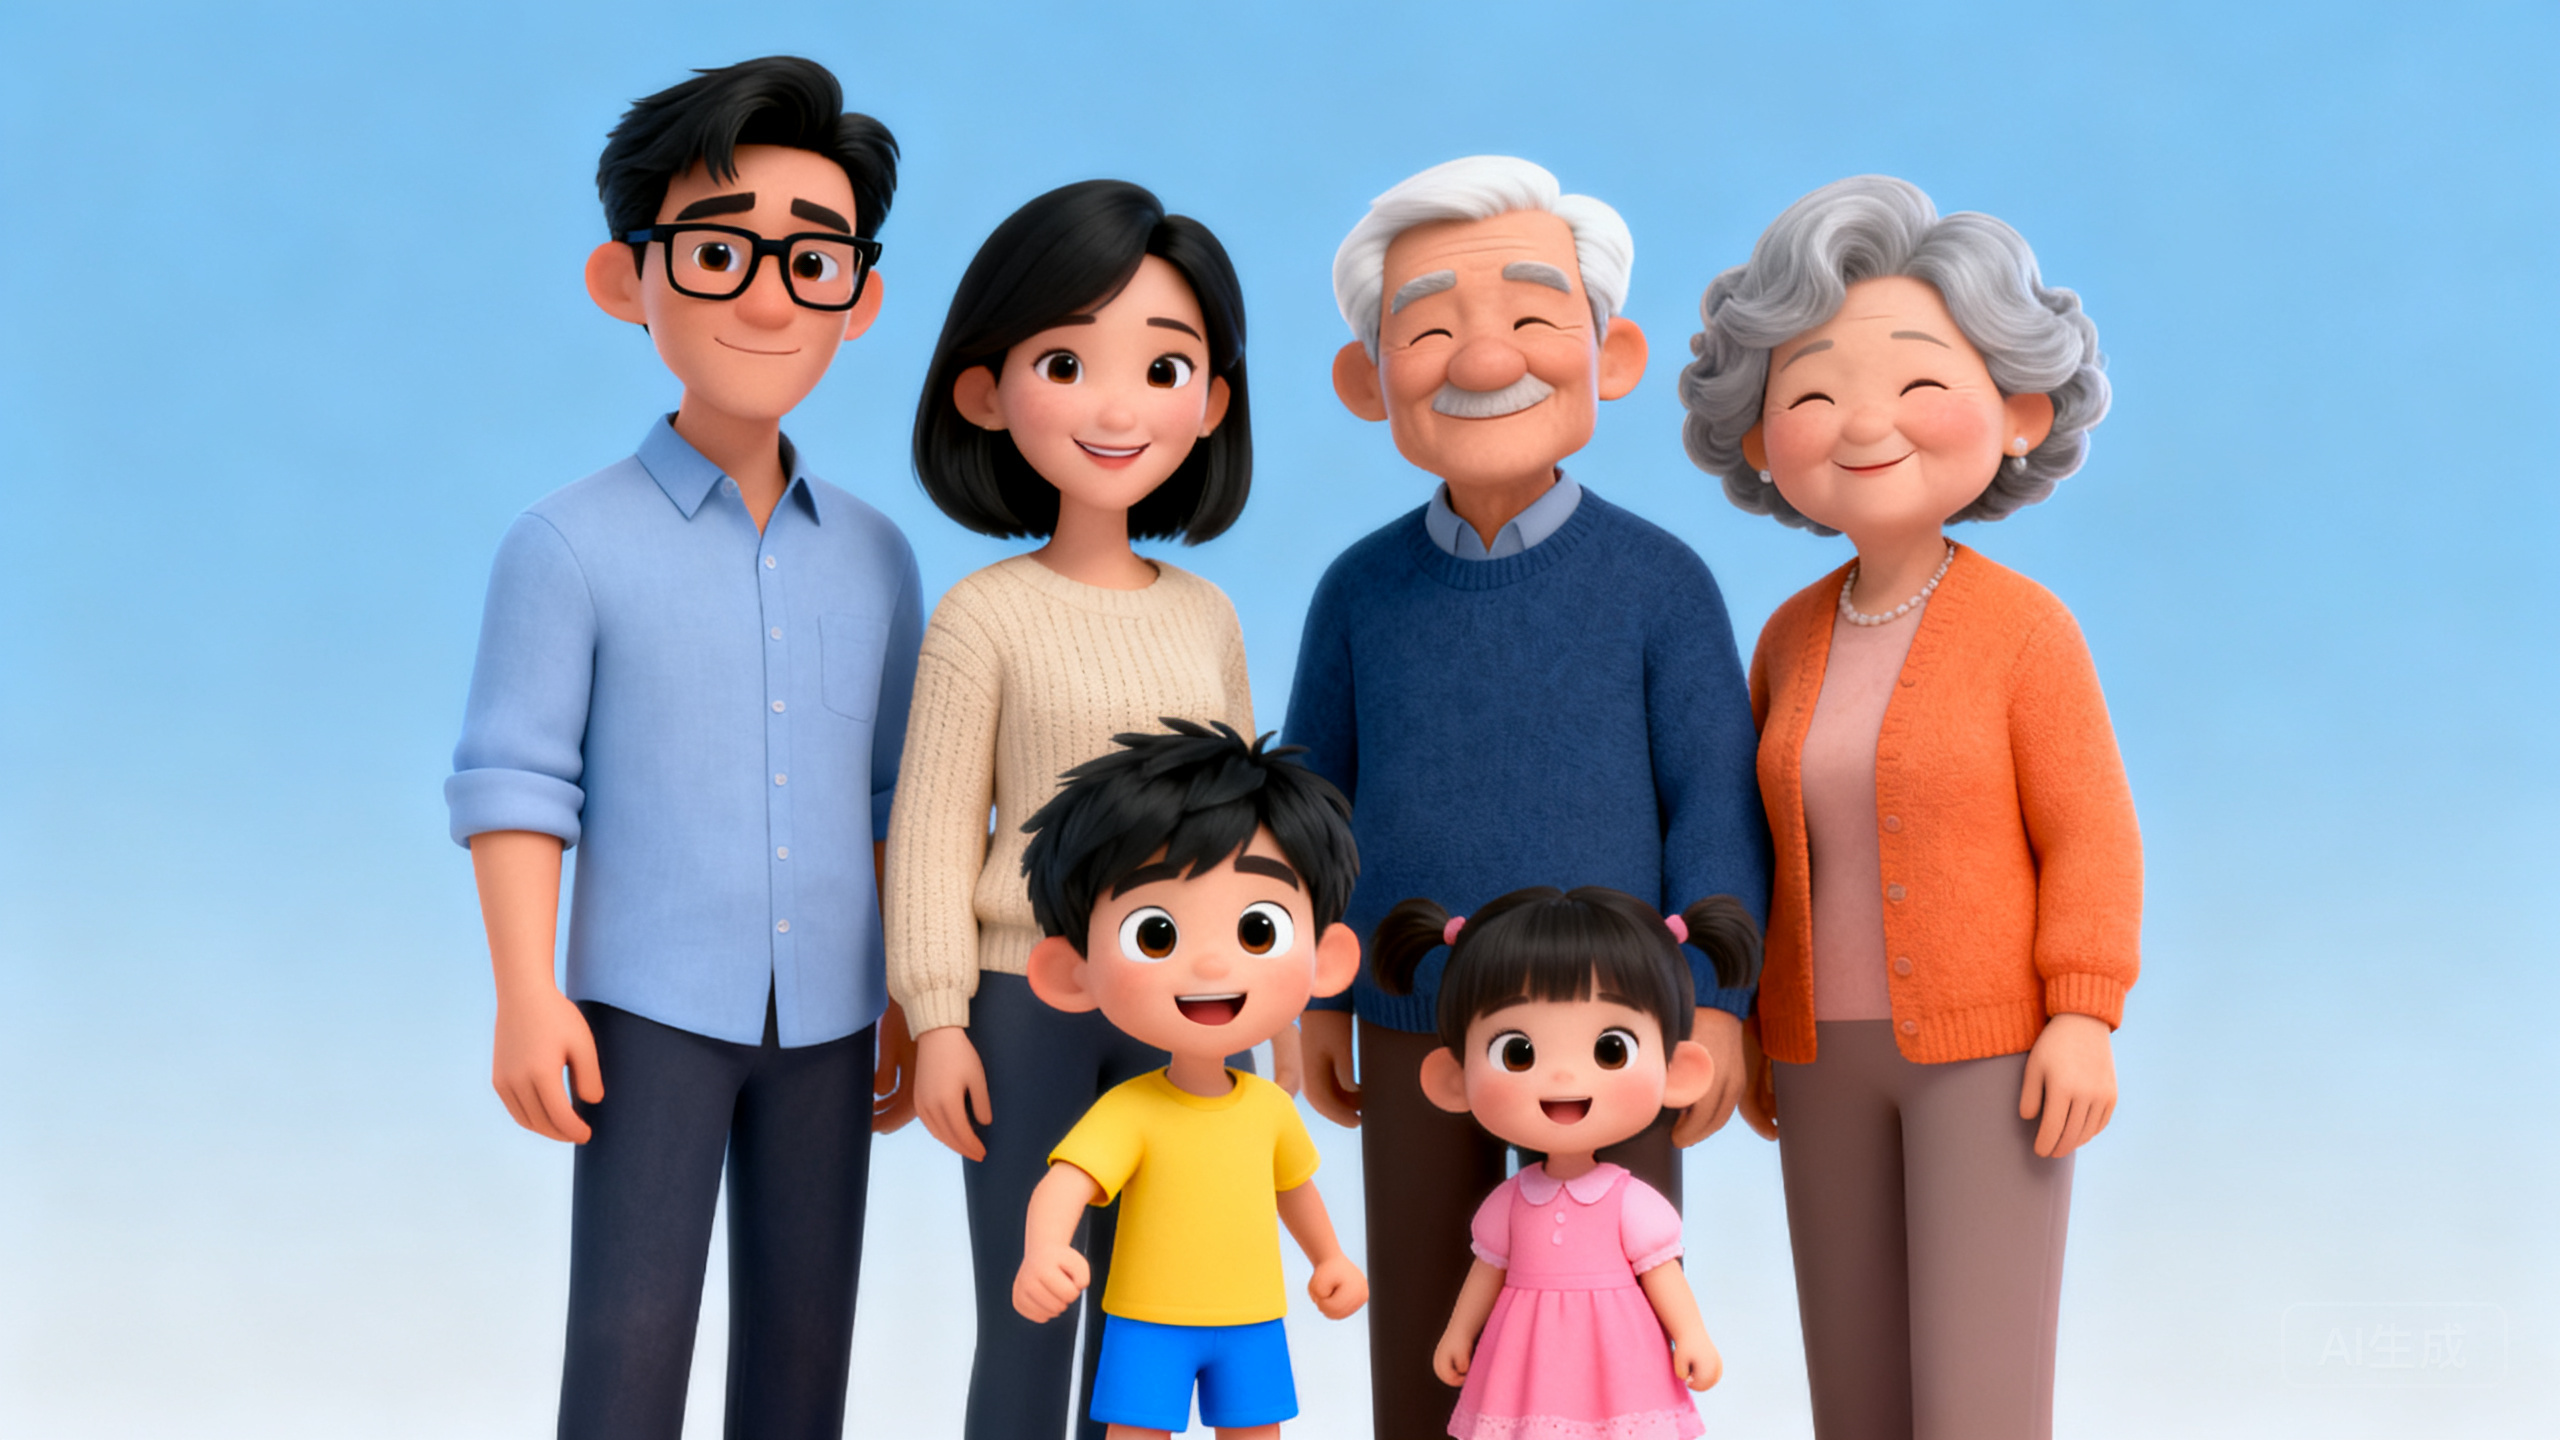
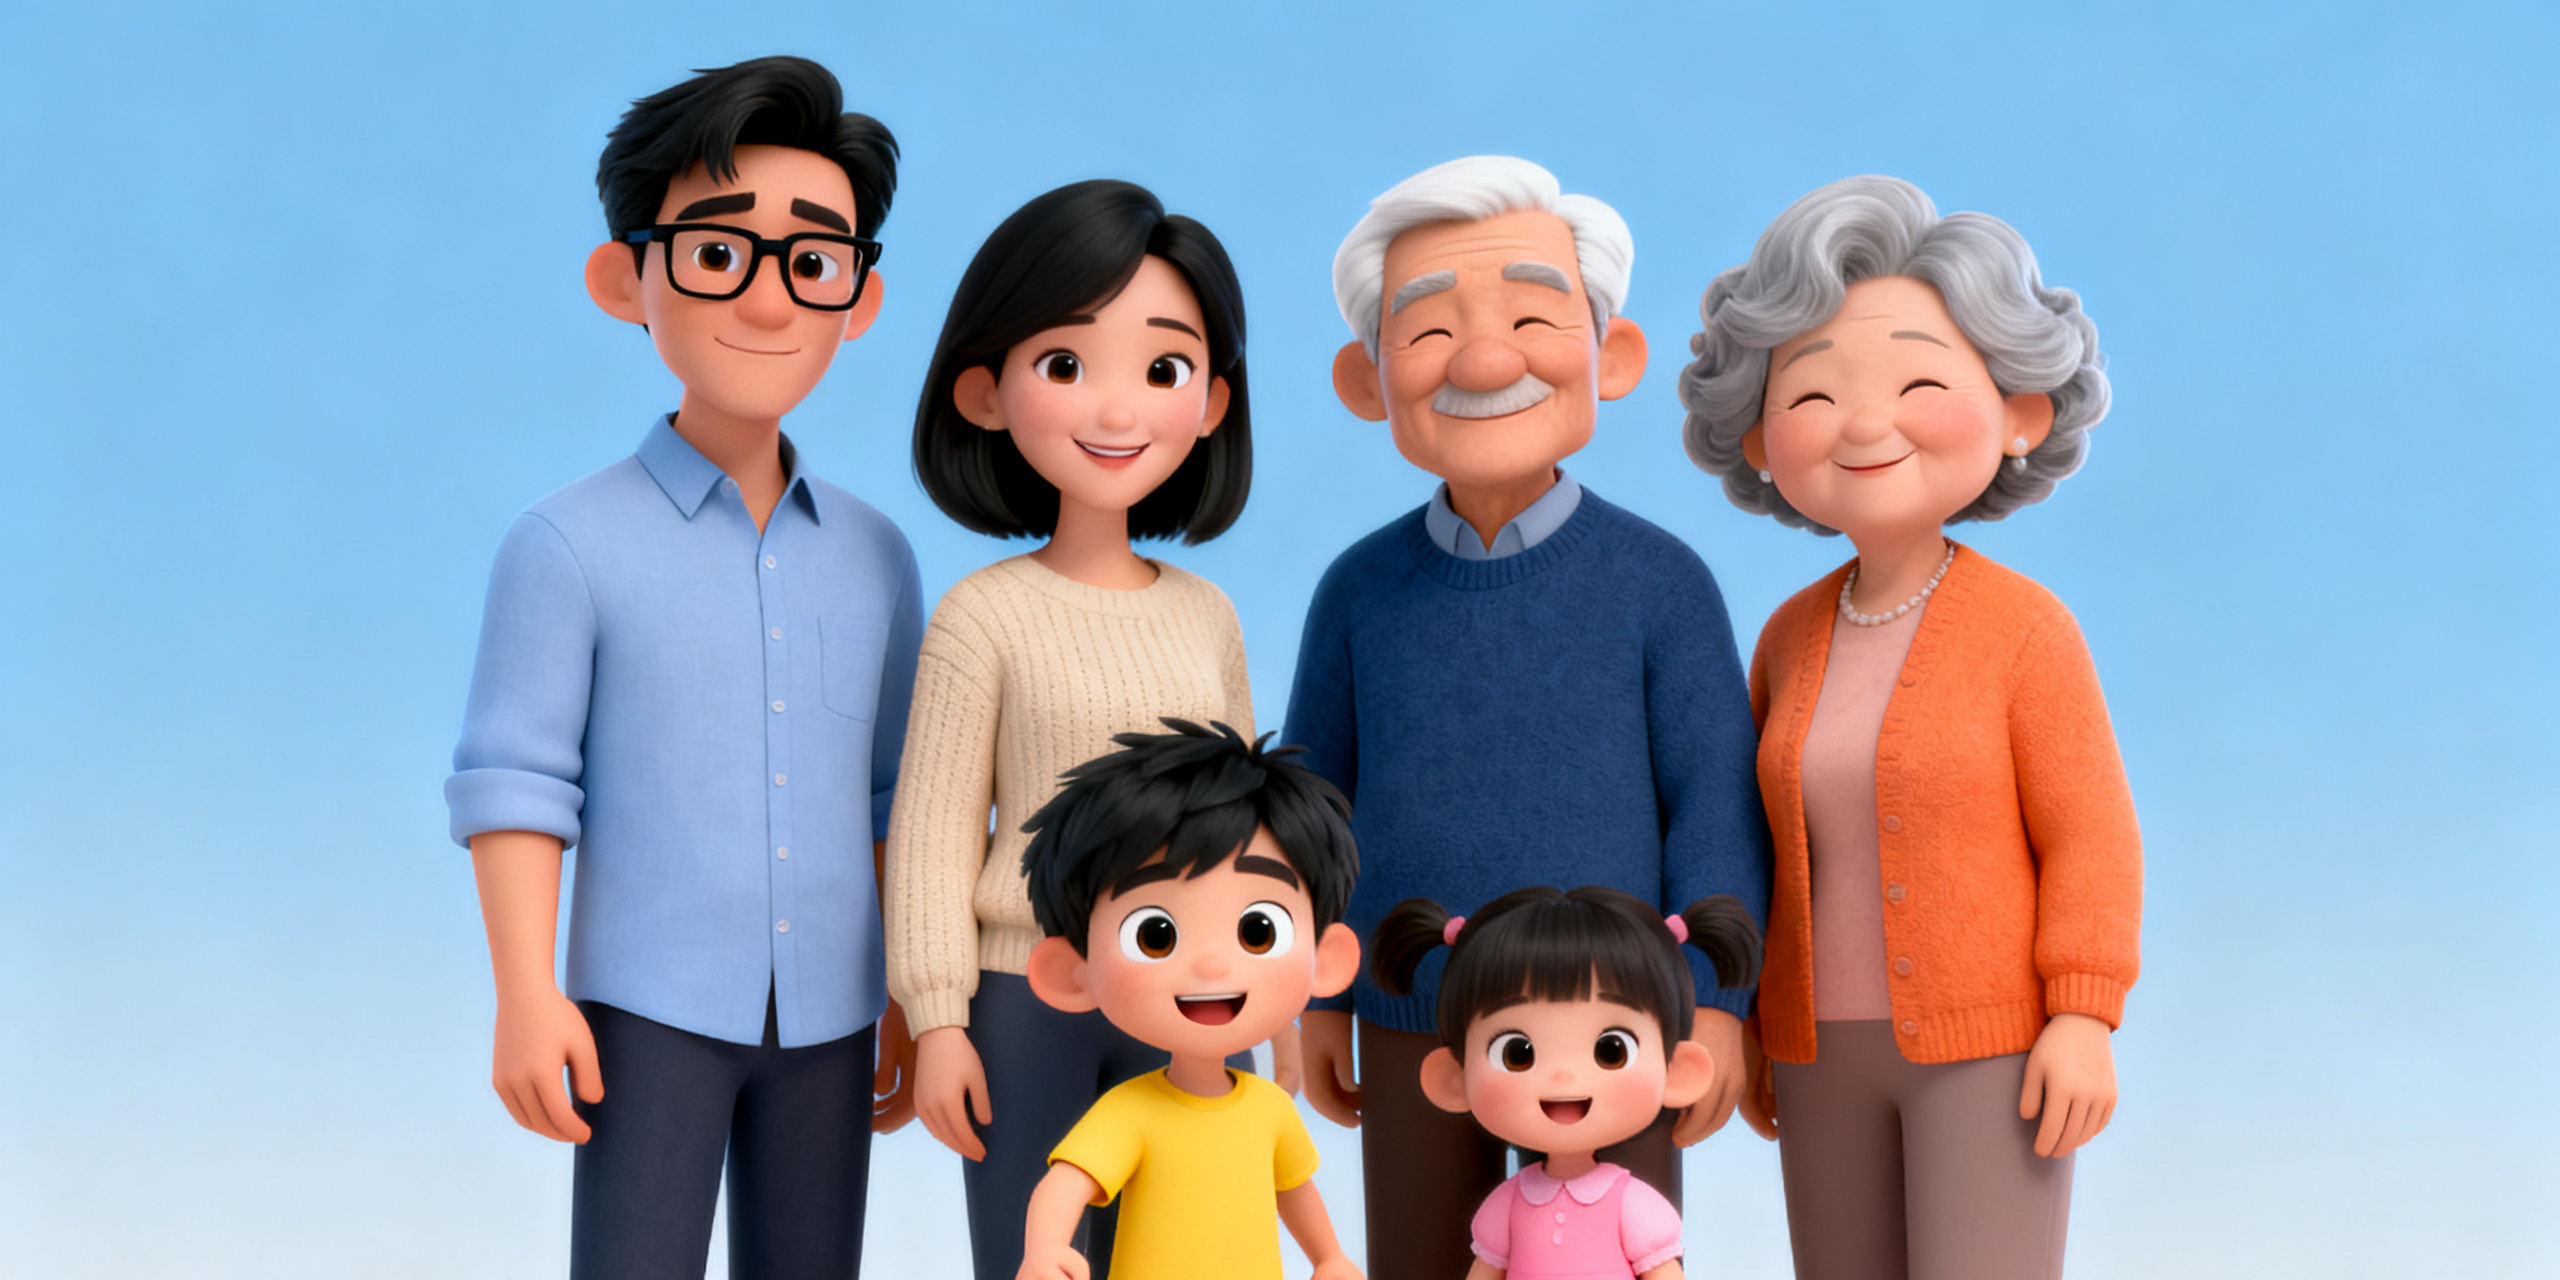
chore: update xuebaai-studio skill assets and tailwind config
Refresh character sheet image, gen script tweaks and tailwind config adjustment

diff --git a/.trae/skills/xuebaai-studio/scripts/gen.py b/.trae/skills/xuebaai-studio/scripts/gen.py
@@ -21,10 +21,11 @@ jobs.json（列表，每项一张图）:
   n         可选：出几张候选（文件名加 -1 -2 -3），3 人以上的场景建议 3，看图挑一张；命令行用 --n
   crowd     可选 true：不追加"只有这N个人"和"其他人不要出现"（场景里本来就要有路人时用）
   style     可选：覆盖默认风格后缀（一般不要改，改了就和别的图不统一了）
+  watermark 可选 true：打开 API 水印（中文"AI生成"角标，默认关，见 SKILL.md 红线）；命令行用 --watermark
 
 --dry-run 只打印最终提示词，不调接口（出图前先看一眼，也方便存档）。
 已存在的文件默认跳过；失败自动重试 2 次；每张成功后把最终提示词记到 <输出目录>/_prompts.json。
-默认开启 API 水印（"AI生成"），符合 2025-09 起的 AI 生成内容标识要求；密钥只在 volc-image-gen 里，本脚本不读取、不打印。
+密钥只在 volc-image-gen 里，本脚本不读取、不打印。
 """
 import argparse
 import json
@@ -151,7 +152,7 @@ def record(outdir, name, entry):
     f.write_text(json.dumps(data, ensure_ascii=False, indent=1), encoding="utf-8")
 
 
-def run(jobs, outdir, force, dry, n_default=1):
+def run(jobs, outdir, force, dry, n_default=1, watermark=False):
     outdir = Path(outdir).resolve()   # 相对路径会让接口脚本的 makedirs('') 报错
     outdir.mkdir(parents=True, exist_ok=True)
     gen = None if dry else load_generator()
@@ -172,7 +173,7 @@ def run(jobs, outdir, force, dry, n_default=1):
                 continue
             for attempt in range(3):
                 r = gen(prompt=prompt, output_path=str(dst), style=j.get("style", STYLE), size=size,
-                        watermark=True, use_base64=True, reference_image=ref)
+                        watermark=j.get("watermark", watermark), use_base64=True, reference_image=ref)
                 if r.get("success"):
                     print("OK  ", name, f"{r['size'] / 1024:.0f}KB", flush=True)
                     record(outdir, name, {"prompt": prompt, "ref": ref and Path(ref).name, "size": size})
@@ -195,6 +196,7 @@ def main():
     ap.add_argument("--n", type=int, default=1, help="每张图出几张候选（3 人以上的场景建议 3）")
     ap.add_argument("--force", action="store_true")
     ap.add_argument("--dry-run", action="store_true")
+    ap.add_argument("--watermark", action="store_true", help="打开 API 水印（中文\"AI生成\"角标，默认关，见 SKILL.md 红线）")
     ap.add_argument("--list", action="store_true", help="列出人物占位词和构图预设")
     a = ap.parse_args()
 
@@ -215,12 +217,12 @@ def main():
             job["layout"] = a.layout
         if a.ref:
             job["ref"] = a.ref
-        run([job], out.parent, a.force, a.dry_run)
+        run([job], out.parent, a.force, a.dry_run, watermark=a.watermark)
         return
     if not (a.jobs and a.outdir):
         ap.error("批量模式要写 jobs.json 和输出目录；单张模式要写 --scene 和 --out")
     jobs = json.loads(Path(a.jobs).read_text(encoding="utf-8"))
-    run(jobs, Path(a.outdir), a.force, a.dry_run, a.n)
+    run(jobs, Path(a.outdir), a.force, a.dry_run, a.n, watermark=a.watermark)
 
 
 if __name__ == "__main__":

diff --git a/.trae/skills/xuebaai-studio/SKILL.md b/.trae/skills/xuebaai-studio/SKILL.md
@@ -46,7 +46,7 @@ python .trae/skills/xuebaai-studio/scripts/gen.py jobs.json <输出目录>   # -
 [{"name": "02-cover.jpg", "layout": "cover",
   "scene": "{爸爸}和{男孩}并肩坐在书桌前，一起看着发光的笔记本屏幕，屏幕散发柔和的蓝光，两个人都笑着；温暖的书房，台灯暖光"}]
 ```
-字段：`scene` 用 `{爸爸} {妈妈} {爷爷} {奶奶} {男孩} {女孩}` 占位；`layout` 构图预设（`cover` 左 1/3 留白放标题 / `cover-wide` 左 4 成留白 / `bubbles` 上角留白叠气泡）；`ref` 参考图，`"none"` 强制不用（纯物件图）；`size` 默认 2560x1440；`n` 候选张数；`crowd: true` 允许路人。
+字段：`scene` 用 `{爸爸} {妈妈} {爷爷} {奶奶} {男孩} {女孩}` 占位；`layout` 构图预设（`cover` 左 1/3 留白放标题 / `cover-wide` 左 4 成留白 / `bubbles` 上角留白叠气泡）；`ref` 参考图，`"none"` 强制不用（纯物件图）；`size` 默认 2560x1440；`n` 候选张数；`crowd: true` 允许路人；`watermark: true` 打开水印（默认关，见红线）。
 
 **3 人以上是"抽签"**：1–2 人基本一次成；3 人以上直接 `--n 3`，看图挑人数对、衣服对的那张，别在提示词上反复纠缠。写 scene 的配方和更多见 `references/prompt-library.md`（找最像的已验证提示词改，比从头写稳）。
 
@@ -54,7 +54,7 @@ python .trae/skills/xuebaai-studio/scripts/gen.py jobs.json <输出目录>   # -
 
 用 Read 把每张图看一遍（别只信"OK"）：
 - 人数对不对（有没有多出路人）；谁是谁（爸爸别变成爷爷）；衣服颜色、发型、眼镜是否对得上设定图；
-- 手、脸有没有明显崩；有没有乱码文字（图里不该有任何字，要字就后期 HTML 叠加）；留白是不是真的空；
+- 手、脸有没有明显崩；有没有乱码文字（图里不该有任何字，要字就后期 HTML 叠加）；留白是不是真的空；右下角有没有极淡的圆角框或"AI生成"字样（有 = 参考图带了水印，换成裁过的干净设定图）；
 - 不满意就改词重出（`--force`），换一张通常比反复改词快。不同张之间脸的细微差别是正常的，"一眼是同一家人"即可。
 
 ## 存放约定（开源笔记库 buyai_notes）
@@ -70,7 +70,7 @@ python .trae/skills/xuebaai-studio/scripts/gen.py jobs.json <输出目录>   # -
 
 ## 别碰的红线
 
-- **水印保留**：API 水印"AI生成"是 2025-09 起的 AI 内容标识要求，脚本已默认开启，别裁掉、别关；发布时平台里仍要勾选 AI 生成声明。
+- **水印默认关**（用户 2026-10-31 决定）：API 的中文"AI生成"角标不要出现在画面里，所以 gen.py 默认不加；确实要加用 `--watermark` / job 里写 `watermark: true`。水印关了之后，AI 生成声明只能靠平台里的 AI 内容开关和文案：发布前必须勾选"内容由 AI 生成"，并在文案里写一句"插图为 AI 生成"。改 volc-image-gen 关不掉（它自己的默认本来就是不加，水印是调用方显式传 `watermark=True` 加上的），要在每个调用方里关。设定图右下角带旧水印会在新图里留下极淡的幽灵框，所以设定图底部 160px 已裁掉（2560×1280，与 xbplan-illustrator 同步）；2026-10-31 之前出的配图仍带水印。
 - **密钥不外露**：Seedream 密钥在 volc-image-gen 目录里，别打印到对话、别写进其他文件、别提交或外发。本 skill 不读取、不打印密钥。
 - **人物跨项目统一**：设定图与外貌词和 xbplan-illustrator 保持逐字一致。若那边重出了设定图，把新图复制过来覆盖 `assets/character-sheet.jpg`，两边同步，别在这边单独重出（会出现两个版本的爸爸）。
 - 提示词里不写孩子真名，只用角色（男孩 / 女孩）。

diff --git a/.trae/skills/xuebaai-studio/references/characters.md b/.trae/skills/xuebaai-studio/references/characters.md
@@ -1,6 +1,6 @@
 # 学爸学AI 家庭角色表
 
-设定图：`assets/character-sheet.jpg`（2560×1440，六位家庭成员并排站立、正面全身，浅蓝渐变背景）。所有有人物的插画都把它当参考图，脸才对得上。
+设定图：`assets/character-sheet.jpg`（2560×1280，六位家庭成员并排站立、正面全身，浅蓝渐变背景；底部 160px 已裁掉，因为原图右下角带着旧水印，会在新图里留下幽灵框）。所有有人物的插画都把它当参考图，脸才对得上。
 
 **来源与同步**：这张图从 `C:\Users\sunia\.claude\skills\xbplan-illustrator\assets\character-sheet.jpg` 复制而来，两边共用同一张图，学爸学AI 的文章配图、学爸智划的视频插画、网站素材里的人物才能互相认得。若 xbplan-illustrator 重出了设定图，把新图复制过来覆盖本文件，**不要在这边单独重出**。
 
@@ -36,7 +36,7 @@
 ```
 全家人角色设定图，六位亚洲家庭成员并排站立，面向镜头微笑：爸爸（30多岁，黑色短发，戴黑框眼镜，浅蓝色衬衫，略带疲惫但温和）、妈妈（30多岁，黑色及肩发，米色针织衫）、爷爷（60多岁，短白发，深蓝色毛衣）、奶奶（60多岁，银灰色短卷发，圆脸，暖橙色开衫，慈祥）、7岁小男孩（黑色短发，圆脸大眼睛，黄色T恤蓝色短裤，活泼）、4岁小女孩（两个小辫，粉色连衣裙）。浅蓝色渐变纯净背景，角色造型统一，正面全身，友好可爱
 ```
-（同样的风格后缀和 2560x1440 出图，不带参考图。重出后两边所有旧图的人物都会和新设定图略有出入，除非必要别重出。）
+（同样的风格后缀和 2560x1440 出图，不带参考图，别开水印——带水印的设定图会把水印带进以后所有新图。重出后两边所有旧图的人物都会和新设定图略有出入，除非必要别重出。）
 
 ## 头像裁剪
 
